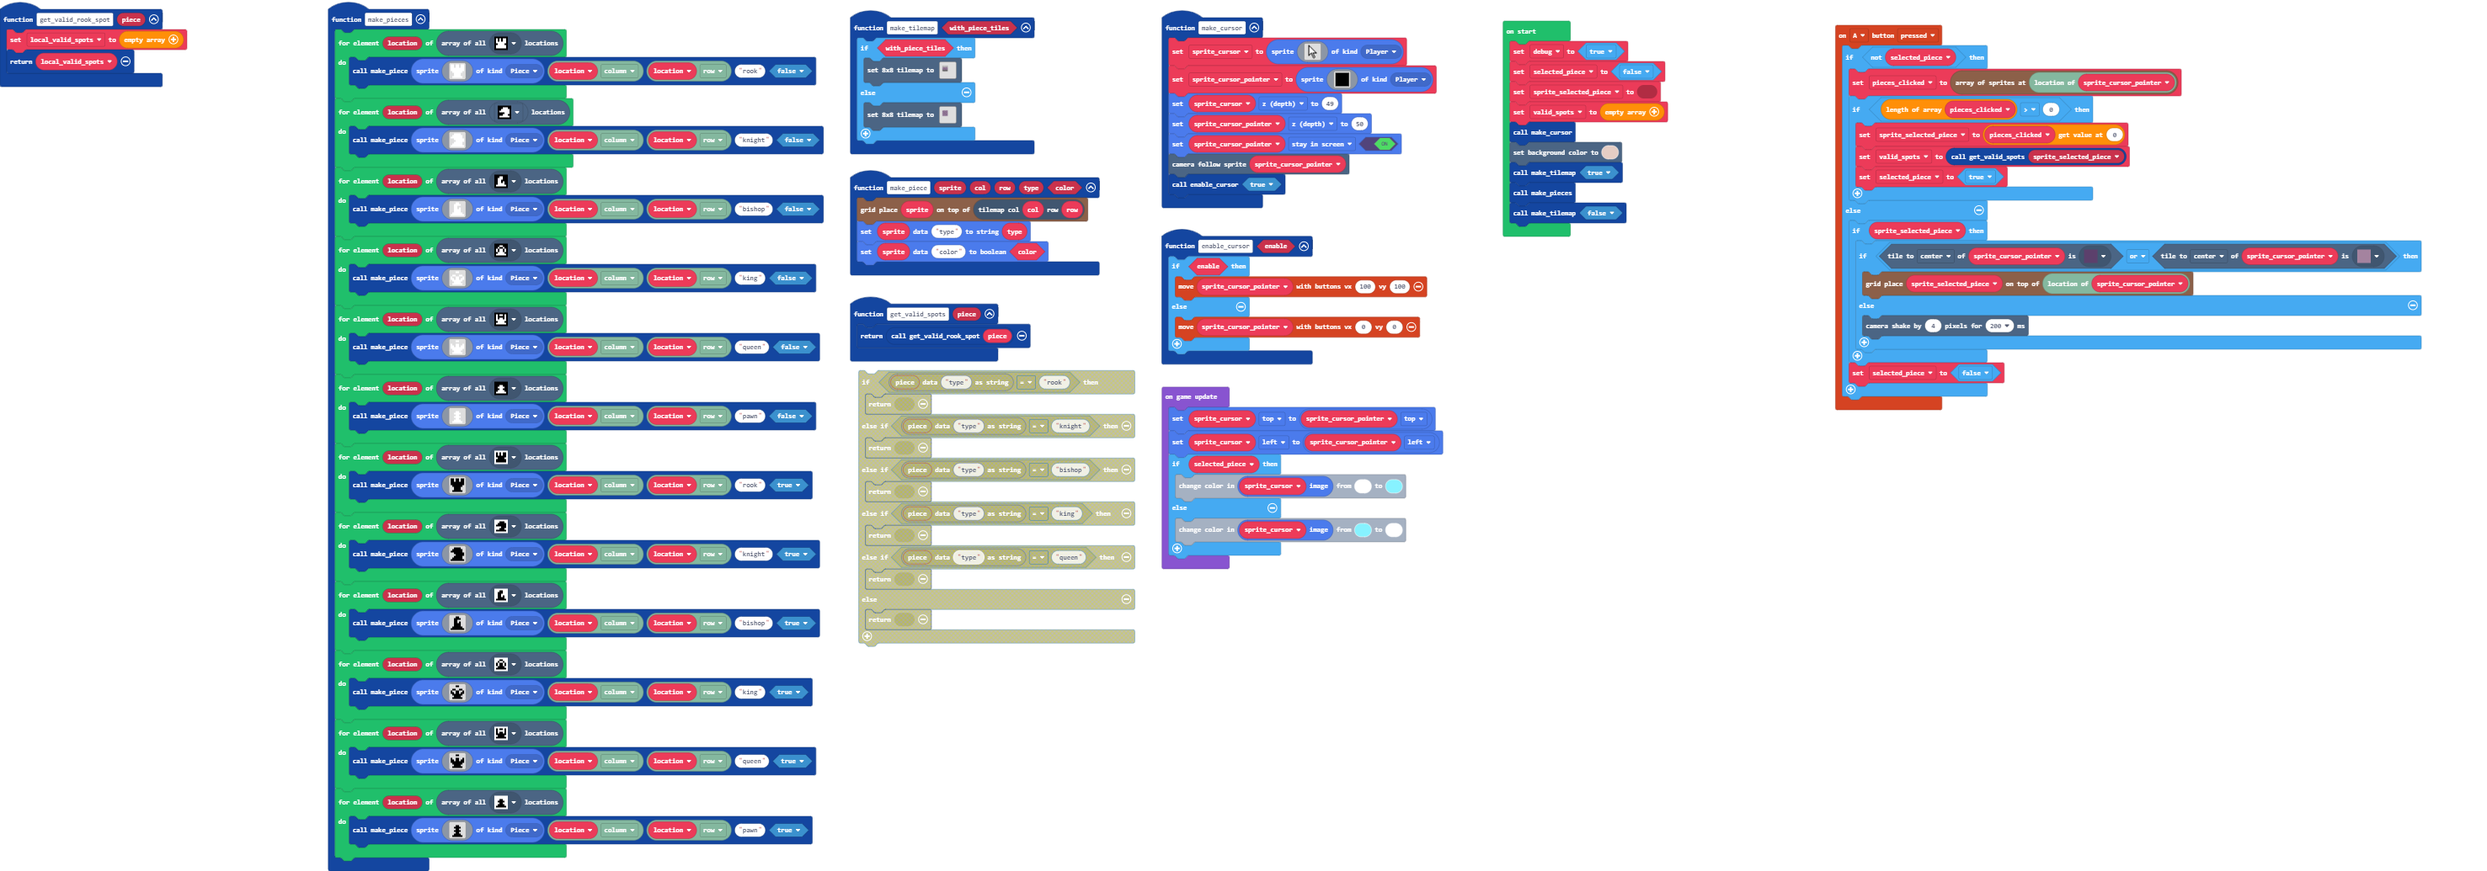
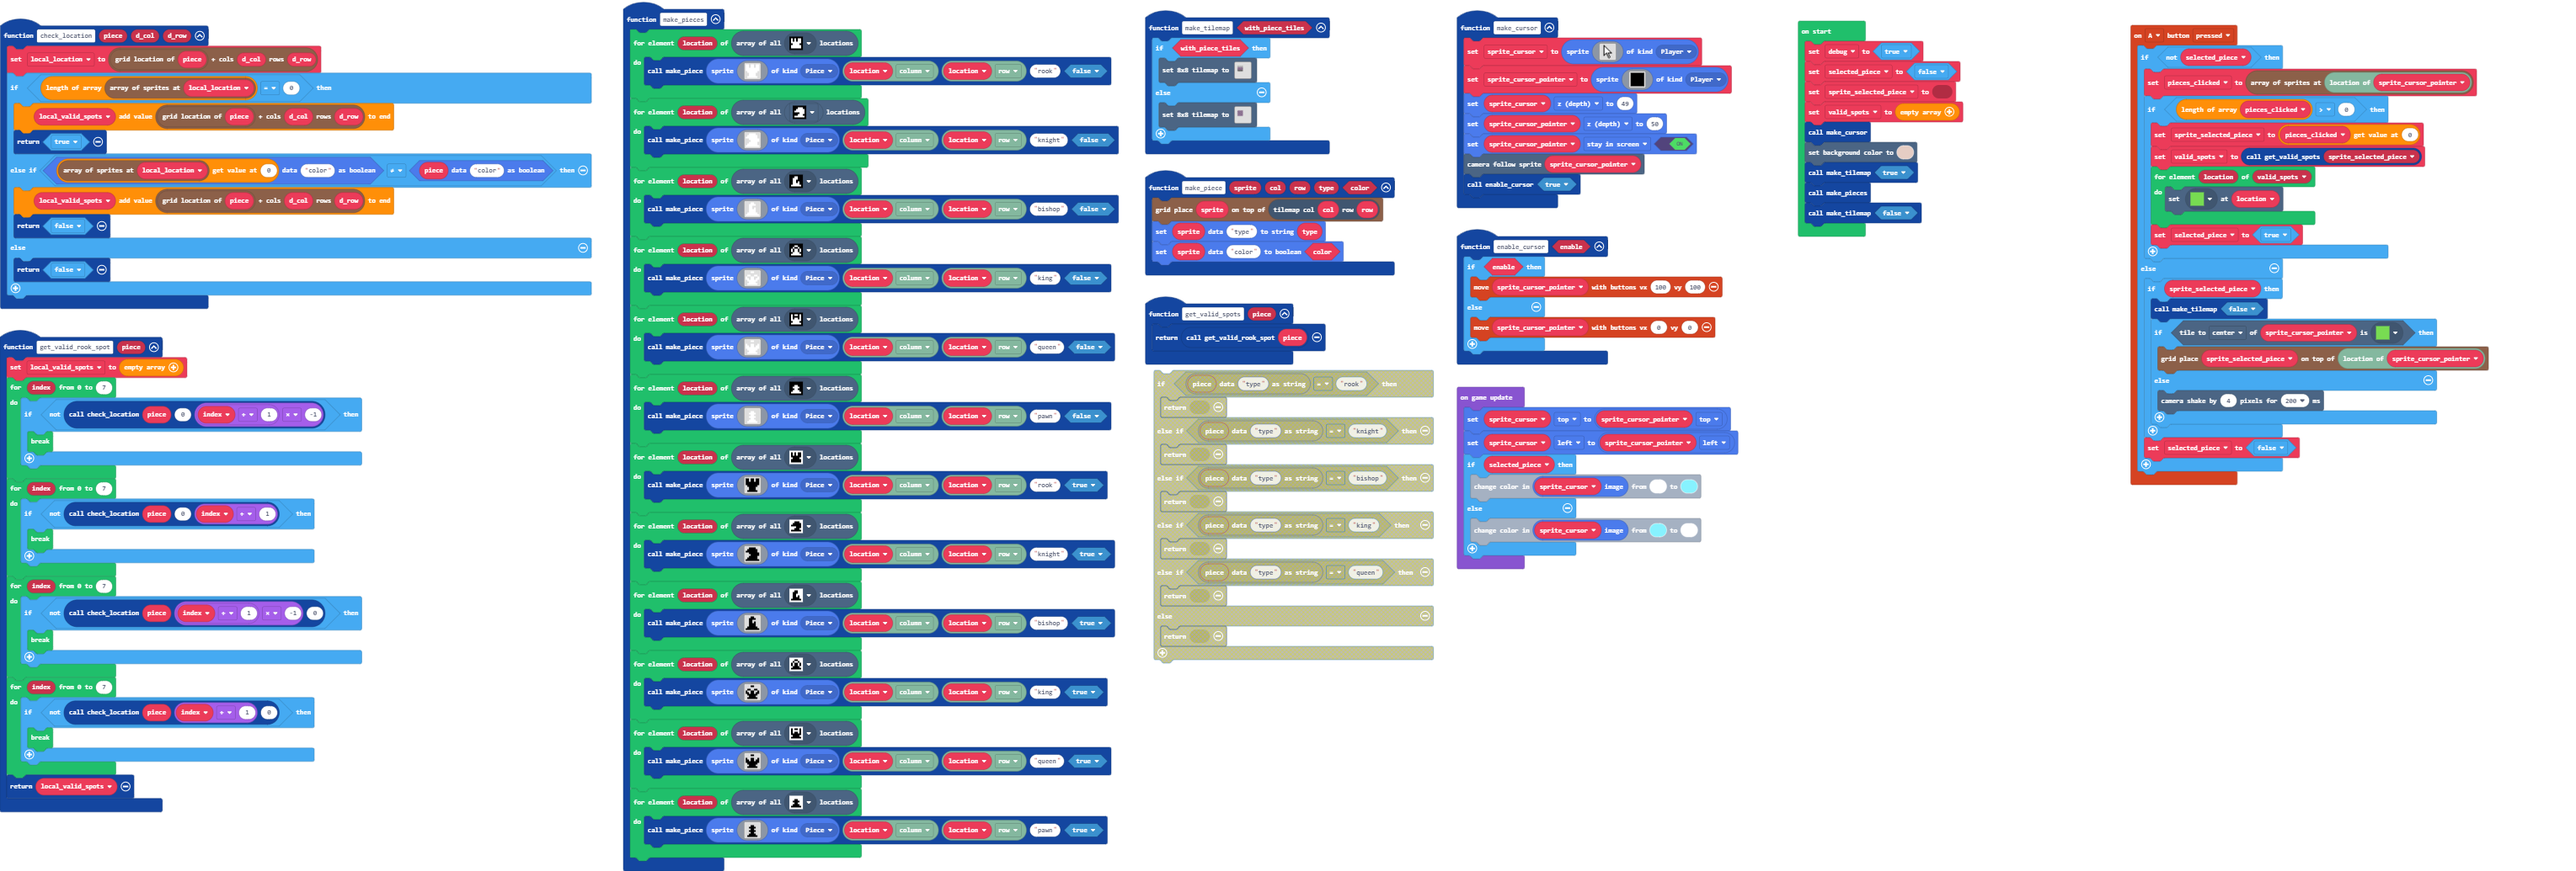
Show directions for rooks!

diff --git a/main.ts b/main.ts
@@ -1,6 +1,18 @@
 namespace SpriteKind {
     export const Piece = SpriteKind.create()
 }
+function check_location (piece: Sprite, d_col: number, d_row: number) {
+    local_location = grid.add(grid.getLocation(piece), d_col, d_row)
+    if (grid.getSprites(local_location).length == 0) {
+        local_valid_spots.push(grid.add(grid.getLocation(piece), d_col, d_row))
+        return true
+    } else if (sprites.readDataBoolean(grid.getSprites(local_location)[0], "color") != sprites.readDataBoolean(piece, "color")) {
+        local_valid_spots.push(grid.add(grid.getLocation(piece), d_col, d_row))
+        return false
+    } else {
+        return false
+    }
+}
 function get_valid_spots (piece: Sprite) {
     return get_valid_rook_spot(piece)
 }
@@ -48,11 +60,15 @@ controller.A.onEvent(ControllerButtonEvent.Pressed, function () {
         if (pieces_clicked.length > 0) {
             sprite_selected_piece = pieces_clicked[0]
             valid_spots = get_valid_spots(sprite_selected_piece)
+            for (let location of valid_spots) {
+                tiles.setTileAt(location, assets.tile`green_tile`)
+            }
             selected_piece = true
         }
     } else {
         if (sprite_selected_piece) {
-            if (sprite_cursor_pointer.tileKindAt(TileDirection.Center, assets.tile`dark_tile`) || sprite_cursor_pointer.tileKindAt(TileDirection.Center, assets.tile`light_tile`)) {
+            make_tilemap(false)
+            if (sprite_cursor_pointer.tileKindAt(TileDirection.Center, assets.tile`green_tile`)) {
                 grid.place(sprite_selected_piece, tiles.locationOfSprite(sprite_cursor_pointer))
             } else {
                 scene.cameraShake(4, 200)
@@ -86,6 +102,26 @@ function enable_cursor (enable: boolean) {
 }
 function get_valid_rook_spot (piece: Sprite) {
     local_valid_spots = []
+    for (let index = 0; index <= 7; index++) {
+        if (!(check_location(piece, 0, (index + 1) * -1))) {
+            break;
+        }
+    }
+    for (let index = 0; index <= 7; index++) {
+        if (!(check_location(piece, 0, index + 1))) {
+            break;
+        }
+    }
+    for (let index = 0; index <= 7; index++) {
+        if (!(check_location(piece, (index + 1) * -1, 0))) {
+            break;
+        }
+    }
+    for (let index = 0; index <= 7; index++) {
+        if (!(check_location(piece, index + 1, 0))) {
+            break;
+        }
+    }
     return local_valid_spots
 }
 function make_piece (sprite: Sprite, col: number, row: number, _type: string, color: boolean) {
@@ -93,11 +129,12 @@ function make_piece (sprite: Sprite, col: number, row: number, _type: string, co
     sprites.setDataString(sprite, "type", _type)
     sprites.setDataBoolean(sprite, "color", color)
 }
-let local_valid_spots: number[] = []
 let sprite_cursor: Sprite = null
 let sprite_cursor_pointer: Sprite = null
 let pieces_clicked: Sprite[] = []
-let valid_spots: number[] = []
+let local_valid_spots: tiles.Location[] = []
+let local_location: tiles.Location = null
+let valid_spots: tiles.Location[] = []
 let sprite_selected_piece: Sprite = null
 let selected_piece = false
 let debug = true

diff --git a/tilemap.g.ts b/tilemap.g.ts
@@ -32,6 +32,8 @@ namespace myTiles {
     export const tile13 = image.ofBuffer(hex``);
     //% fixedInstance jres blockIdentity=images._tile
     export const tile14 = image.ofBuffer(hex``);
+    //% fixedInstance jres blockIdentity=images._tile
+    export const tile15 = image.ofBuffer(hex``);
 
     helpers._registerFactory("tilemap", function(name: string) {
         switch(helpers.stringTrim(name)) {
@@ -54,7 +56,7 @@ namespace myTiles {
 . . . . . . . . . . . . . . . . . . . . 
 `, [myTiles.transparency8,myTiles.tile1,myTiles.tile3], TileScale.Eight);
             case "board_with_tile_pieces":
[2 lines of base64/hex data omitted]
 . . . . . . . . . . . . . . . . . . . . 
 . . . . . . . . . . . . . . . . . . . . 
 . . . . . . . . . . . . . . . . . . . . 
@@ -107,6 +109,8 @@ namespace myTiles {
             case "tile13":return tile13;
             case "black_pawn_tile":
             case "tile14":return tile14;
+            case "green_tile":
+            case "tile15":return tile15;
         }
         return null;
     })
